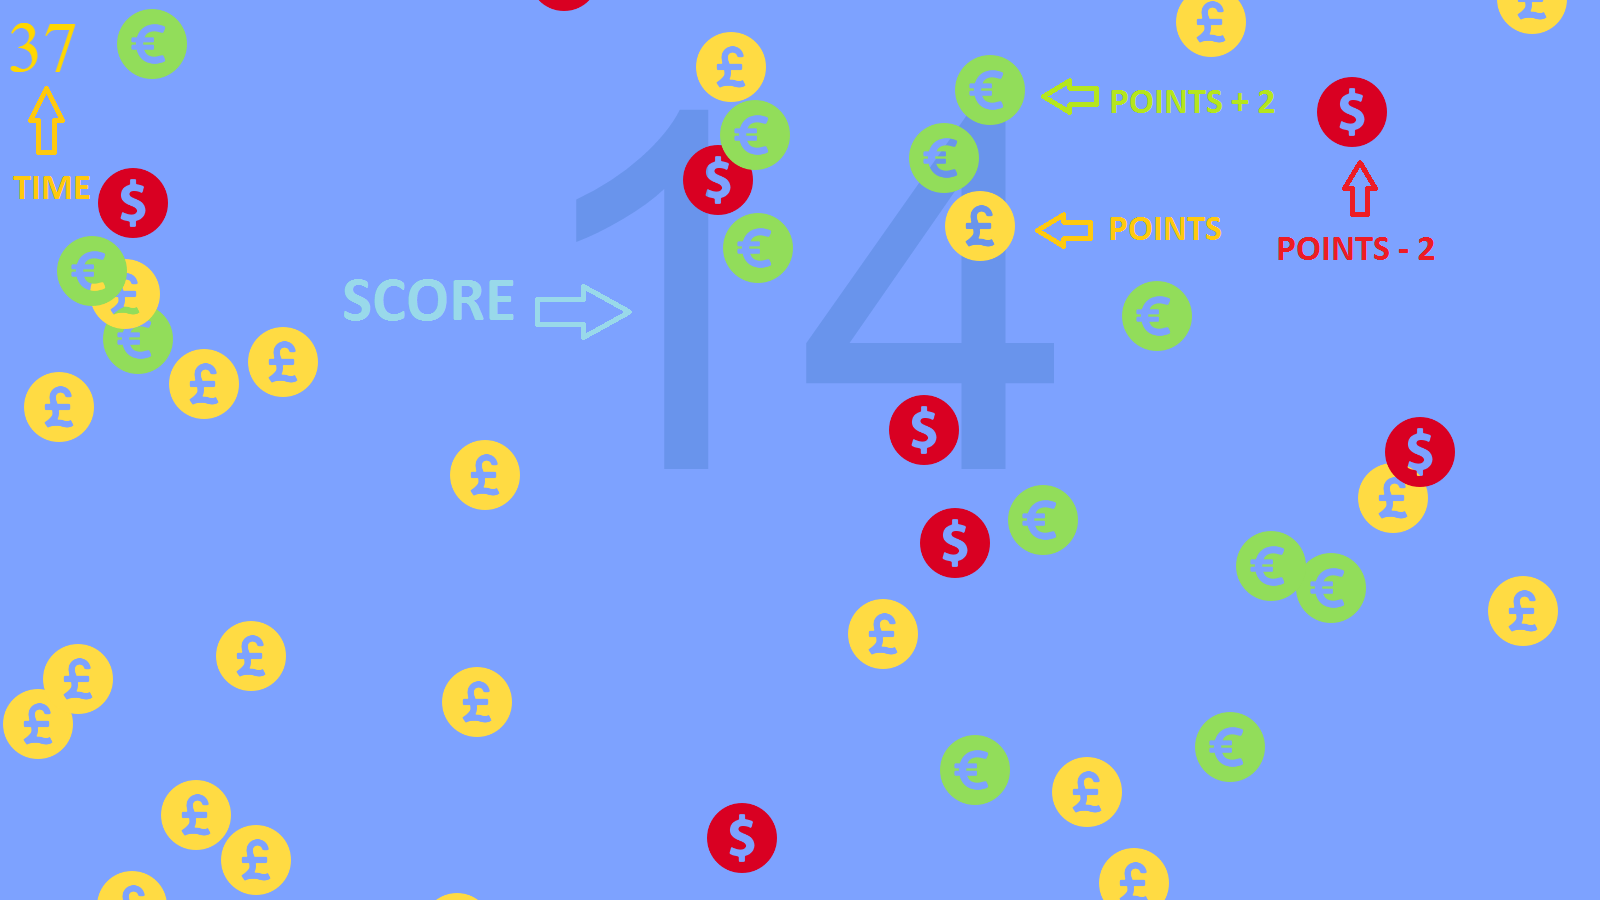
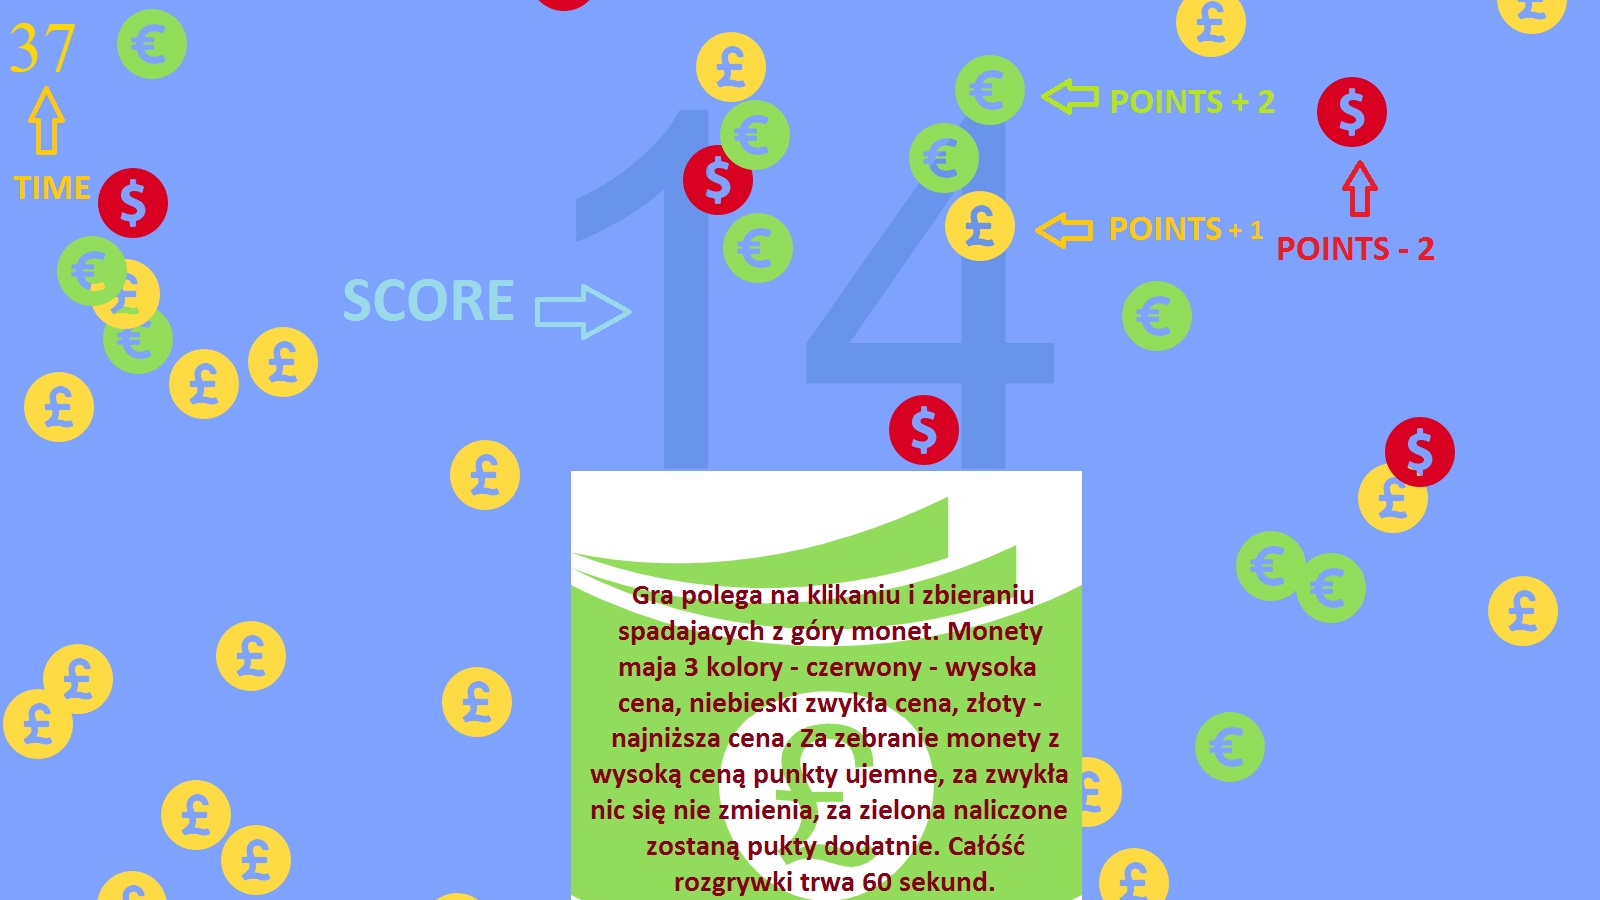
nowa instrukcja

diff --git a/index.html b/index.html
@@ -23,6 +23,8 @@
 		$('#clicker').on('click',function(){
 			$('#instru').fadeToggle(1000);
 		});
+
+		// $('#topscore').click(localStorage.clear('maxscore'));
 	</script>
 </body>
 </html>

diff --git a/style.css b/style.css
@@ -81,7 +81,7 @@
     left: 50%;
     top:50%;
     transform: translate(-50%,-50%);
-    /*cursor:pointer;*/
+    cursor:pointer;
 
 }
 
